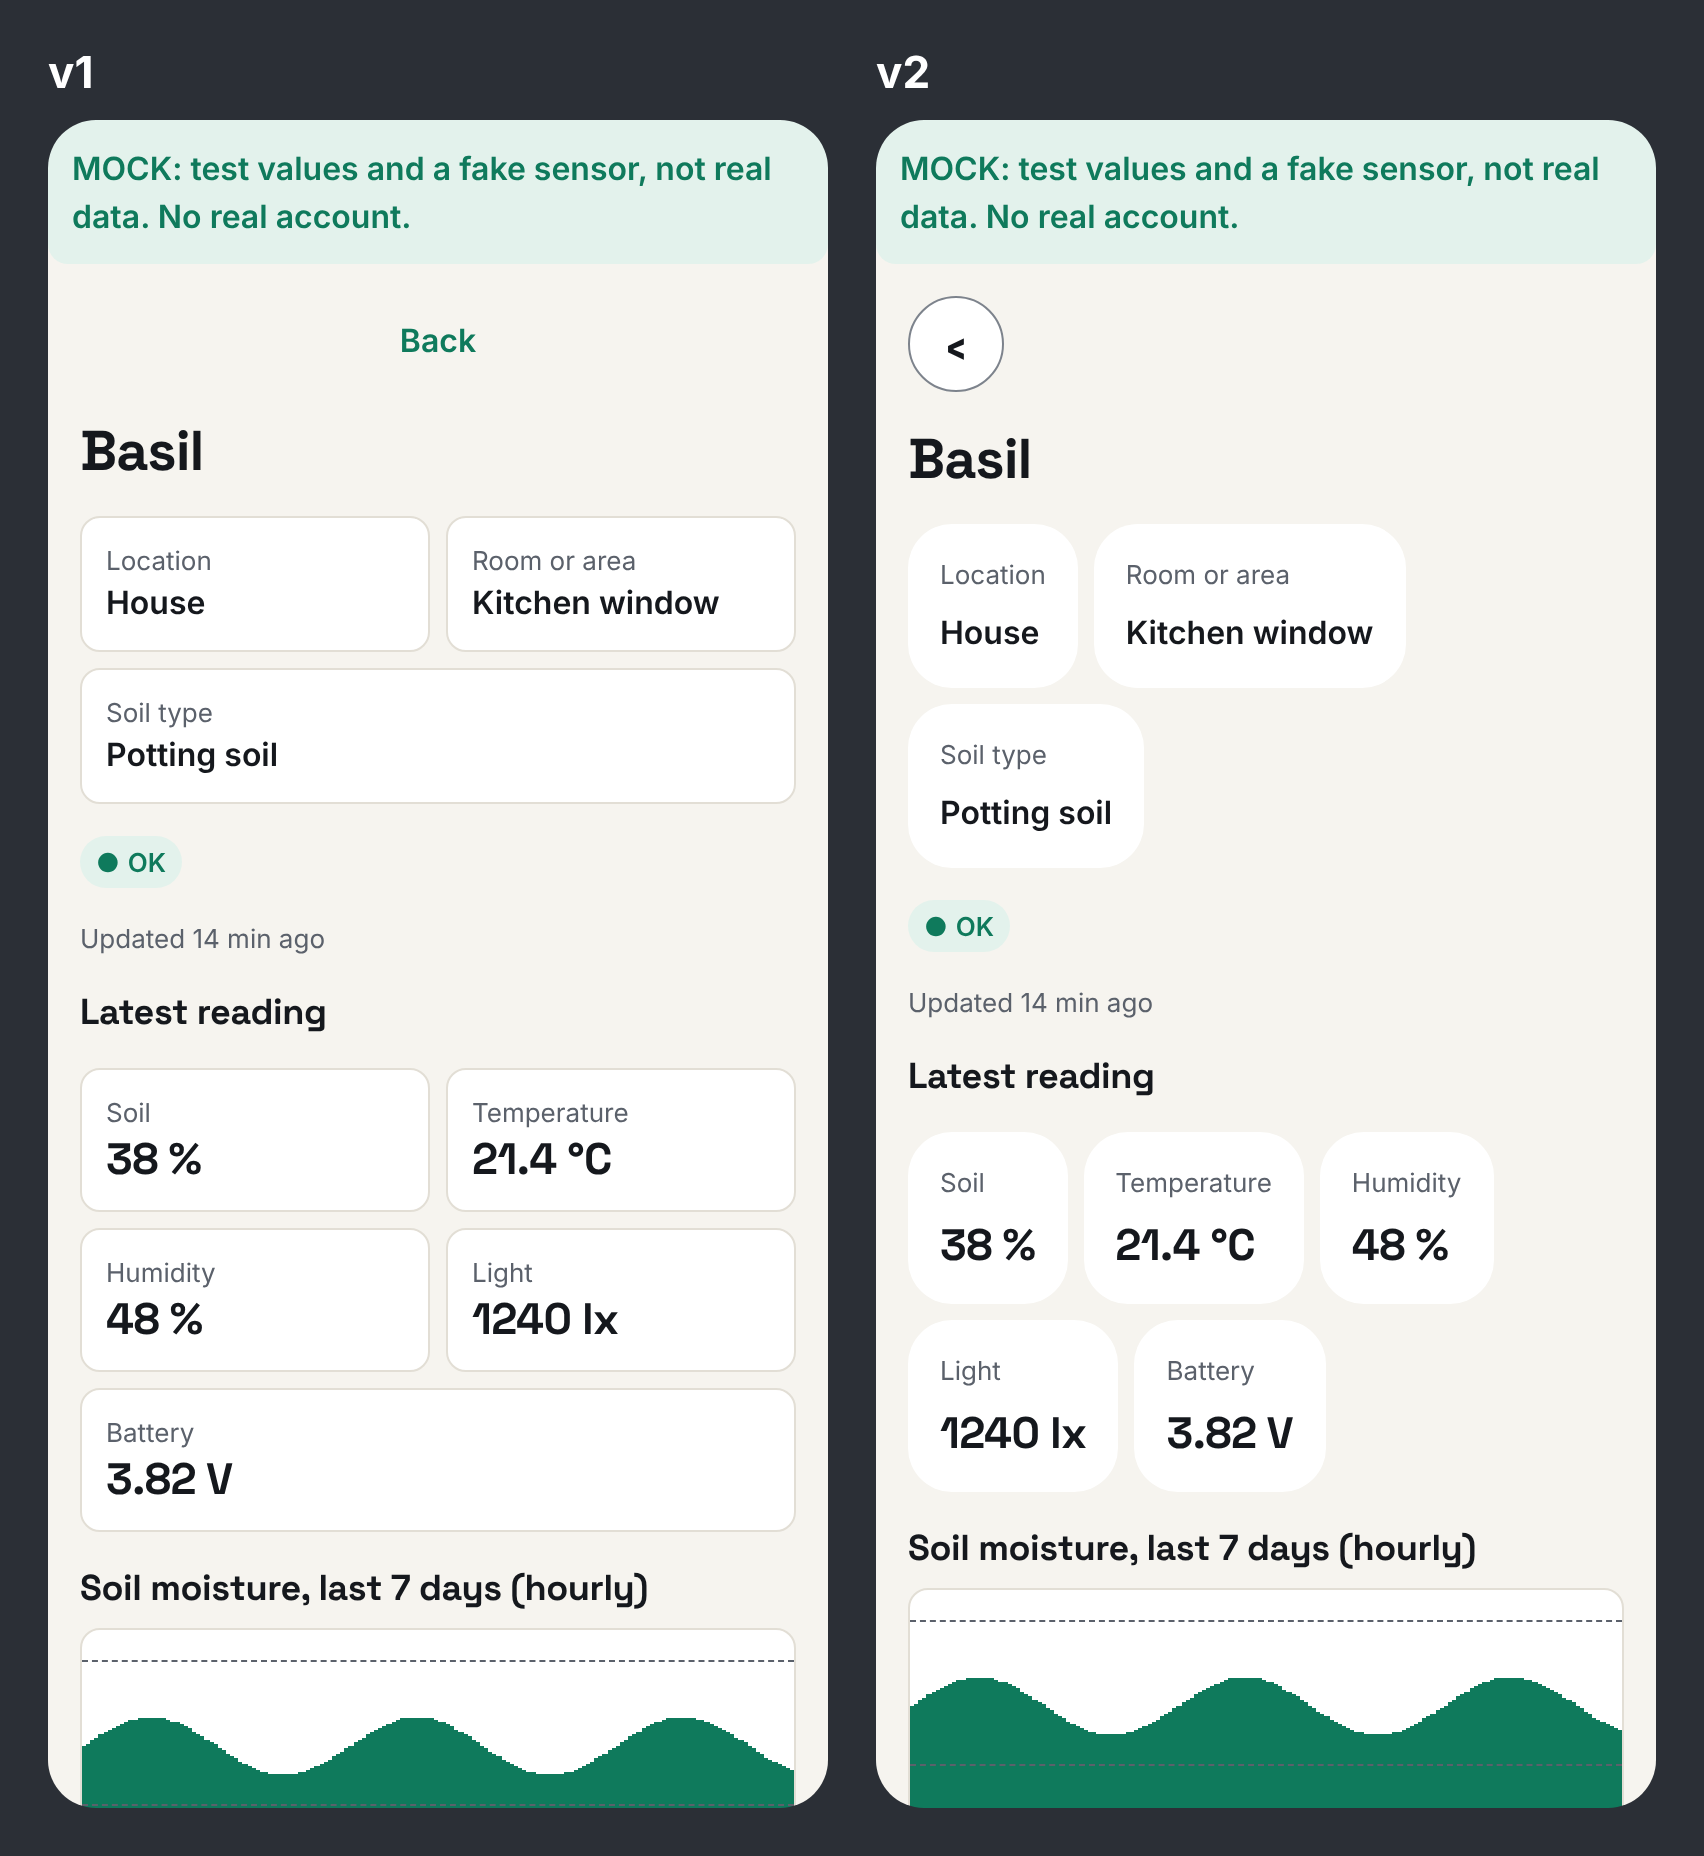
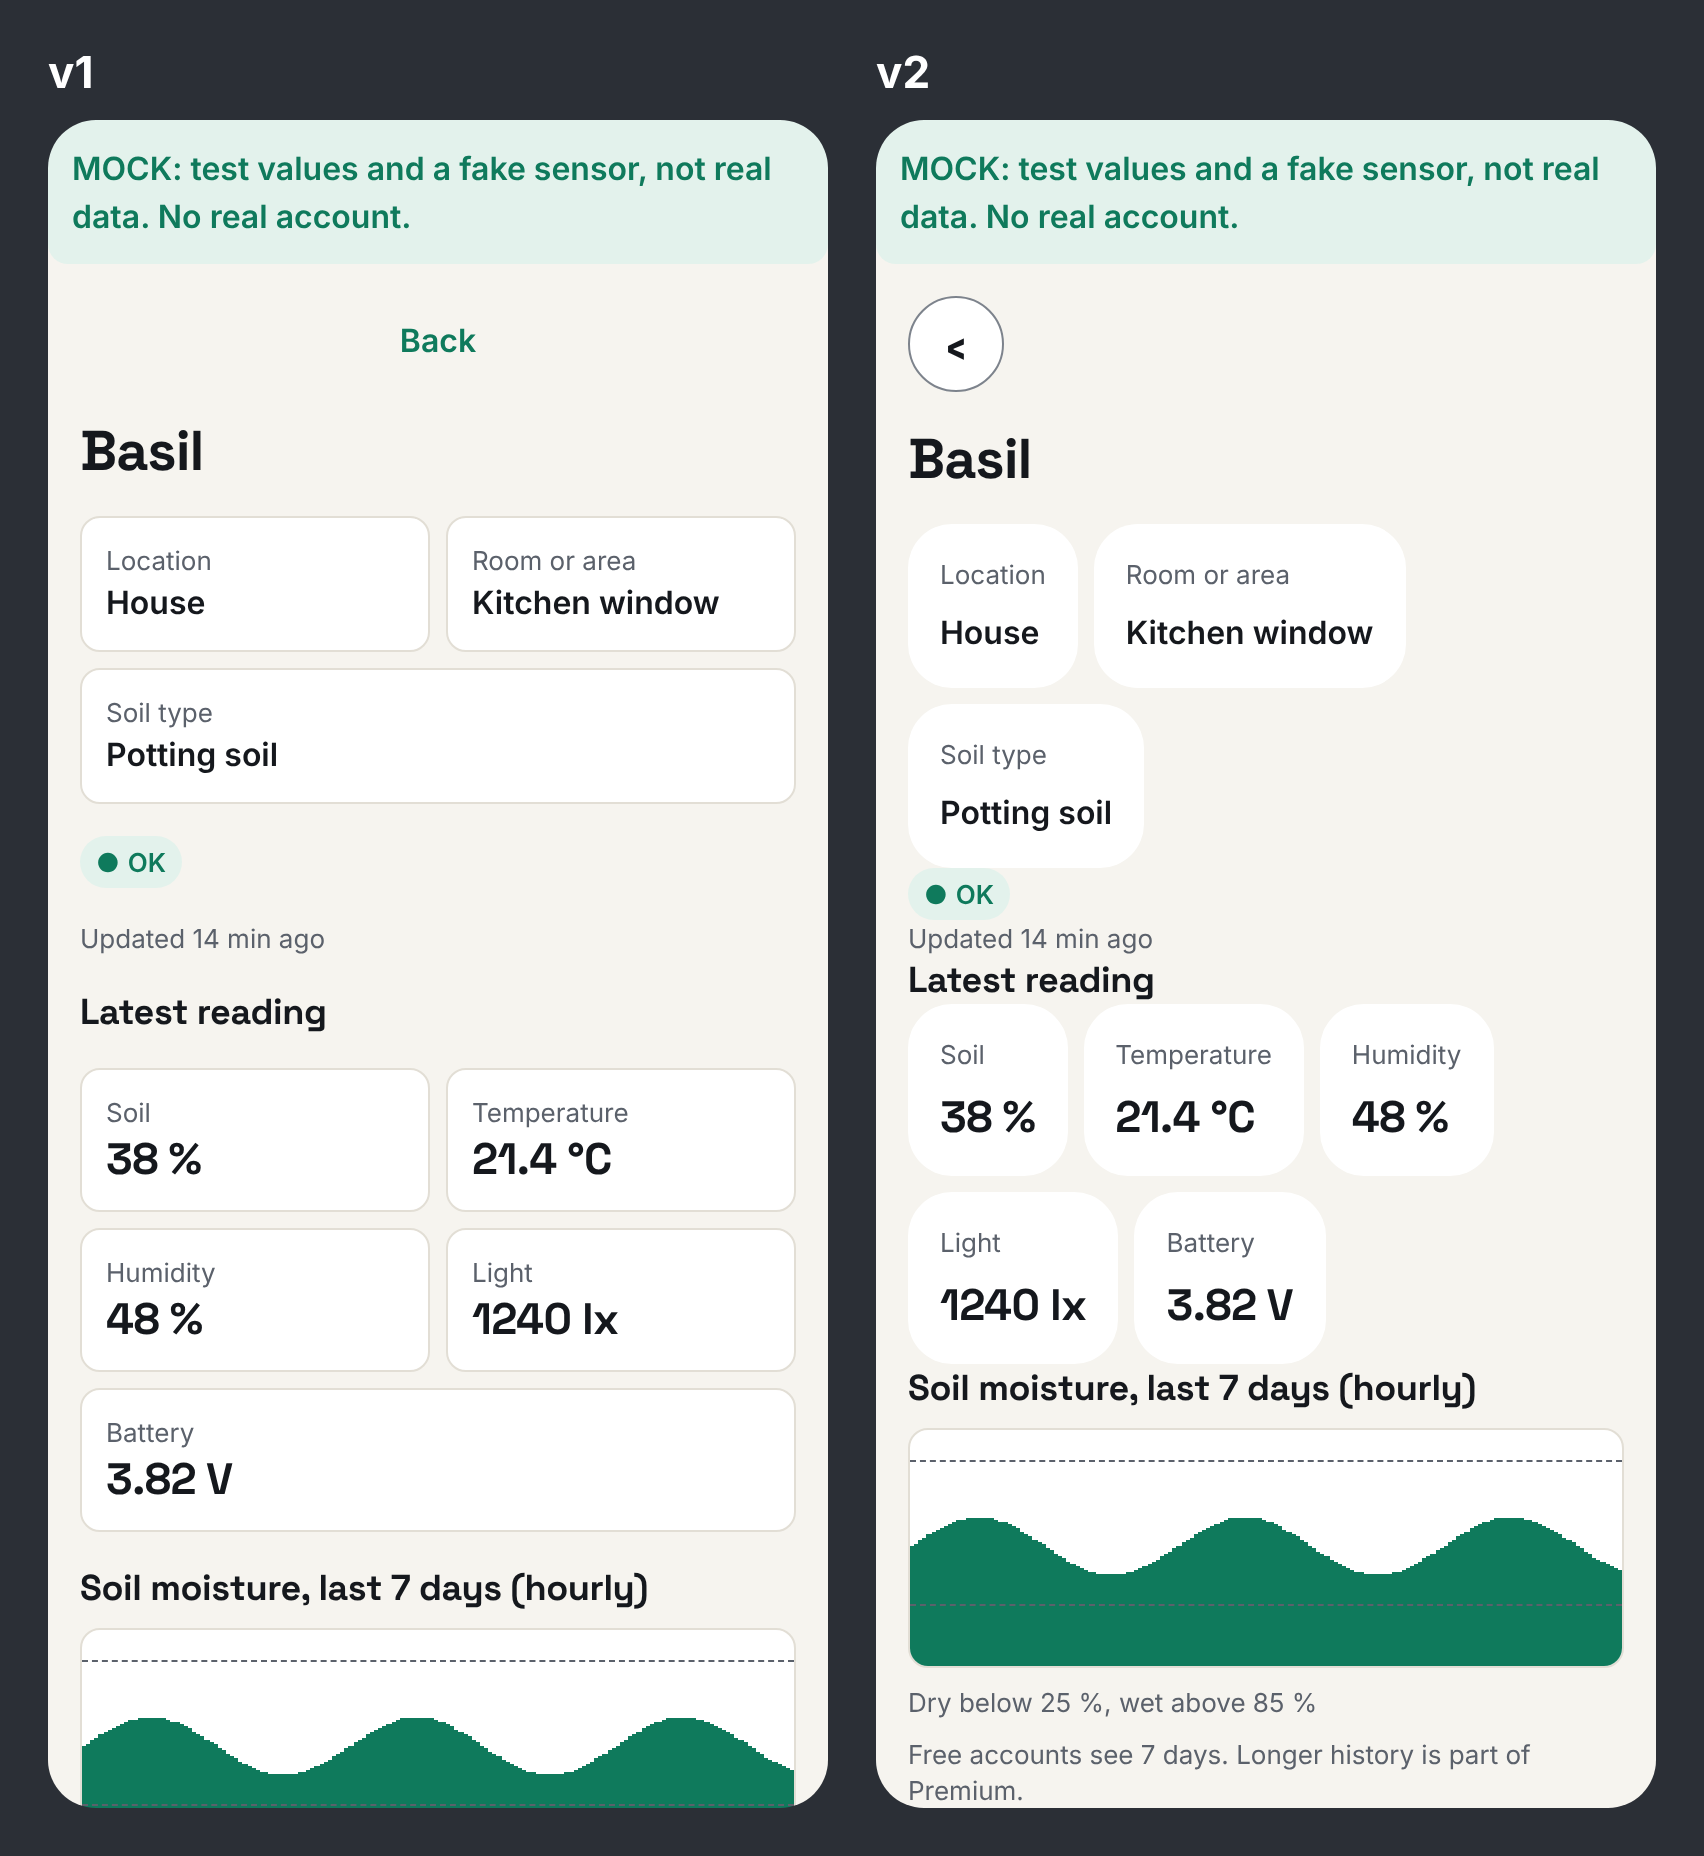
Restyle group 1 (profile, My plants, plant detail): reduced-motion-aware fade on screen content, list row for the profile email; before and after renders
Claude-Session: https://claude.ai/code/session_01W3bSqBd8nqtrn2oVzxrJYm

Changed region(s): [[0.5288, 0.8125, 0.9642, 1.0], [0.5288, 0.4688, 0.8709, 0.7812], [0.7776, 0.5625, 0.8398, 0.6875]]

diff --git a/projects/plant-monitor/app/src/ui/primitives.tsx b/projects/plant-monitor/app/src/ui/primitives.tsx
@@ -1,6 +1,6 @@
 // Small themed building blocks. Colours/spacing only from theme.ts tokens, text only via t() (playbook: no inline values, no inline strings).
 import React from 'react';
-import { Pressable, ScrollView, Text, TextInput, View, type TextInputProps } from 'react-native';
+import { AccessibilityInfo, Animated, Pressable, ScrollView, Text, TextInput, View, type TextInputProps } from 'react-native';
 import { useTheme } from './useTheme';
 import { t } from '../i18n';
 
@@ -15,14 +15,29 @@ export function BackButton({ onPress }: { onPress: () => void }) {
   );
 }
 
-export function Screen({ title, children, onBack }: { title: string; children: React.ReactNode; onBack?: () => void }) {
+/** Short fade-in for a screen's content (220 ms, native driver). When the system asks for reduced motion the content is shown at once. */
+export function FadeIn({ children }: { children: React.ReactNode }) {
+  const opacity = React.useRef(new Animated.Value(0)).current;
+  React.useEffect(() => {
+    let alive = true;
+    AccessibilityInfo.isReduceMotionEnabled().then((reduce) => {
+      if (!alive) return;
+      if (reduce) opacity.setValue(1);
+      else Animated.timing(opacity, { toValue: 1, duration: 220, useNativeDriver: true }).start();
+    }, () => { if (alive) opacity.setValue(1); });
+    return () => { alive = false; };
+  }, [opacity]);
+  return <Animated.View style={{ opacity }}>{children}</Animated.View>;
+}
+
+export function Screen({ title, children, onBack, fade }: { title: string; children: React.ReactNode; onBack?: () => void; fade?: boolean }) {
   const th = useTheme();
   return (
     <View style={{ flex: 1, backgroundColor: th.color.bg }} accessibilityLabel={t('a11y.screenTitle', { title })}>
       <ScrollView contentContainerStyle={{ padding: th.spacing.lg, gap: th.spacing.lg }} keyboardShouldPersistTaps="handled">
         {onBack ? <BackButton onPress={onBack} /> : null}
         <Text accessibilityRole="header" style={{ color: th.color.ink, ...th.type.h1 }}>{title}</Text>
-        {children}
+        {fade ? <FadeIn>{children}</FadeIn> : children}
       </ScrollView>
     </View>
   );

diff --git a/projects/plant-monitor/app/src/screens/ProfileScreen.tsx b/projects/plant-monitor/app/src/screens/ProfileScreen.tsx
@@ -2,7 +2,7 @@
 // NFR-06 (reads/writes only the caller's own profiles row under RLS).
 import React, { useCallback, useEffect, useState } from 'react';
 import { Body, Button, Field, Notice, Screen } from '../ui/primitives';
-import { Card, Caption } from '../ui/kit';
+import { Card, Caption, ListRow } from '../ui/kit';
 import { Column } from '../ui/kit';
 import { LegalLine } from '../ui/LegalLine';
 import { t } from '../i18n';
@@ -46,11 +46,13 @@ export function ProfileScreen({ onPremium, onDelete, onAddSensor, onDashboard, o
   };
 
   return (
-    <Screen title={t('profile.title')}>
+    <Screen fade title={t('profile.title')}>
       {error ? <Notice kind="error" text={error} /> : null}
       <Card>
-        <Caption>{t('profile.email')}</Caption>
-        <Body>{state.user?.email ?? ''}</Body>
+        <ListRow last>
+          <Caption>{t('profile.email')}</Caption>
+          <Body>{state.user?.email ?? ''}</Body>
+        </ListRow>
       </Card>
       <Card>
         <Caption>{t('profile.plan')}</Caption>

diff --git a/projects/plant-monitor/app/src/screens/PlantDetailScreen.tsx b/projects/plant-monitor/app/src/screens/PlantDetailScreen.tsx
@@ -38,7 +38,7 @@ export function PlantDetailScreen({ plantId, onBack, onRemove, onGallery, now = 
   );
 
   return (
-    <Screen title={p?.name ?? t('plants.title')} onBack={onBack}>
+    <Screen fade title={p?.name ?? t('plants.title')} onBack={onBack}>
       {error ? <Notice kind="error" text={error} /> : null}
       {error ? <Button label={t('common.tryAgain')} variant="secondary" onPress={load} /> : null}
       {!detail && !error ? <Body muted>{t('common.loading')}</Body> : null}

diff --git a/projects/plant-monitor/app/src/screens/PlantsScreen.tsx b/projects/plant-monitor/app/src/screens/PlantsScreen.tsx
@@ -26,7 +26,7 @@ export function PlantsScreen({ onOpen, onAlerts, onCount }: { onOpen: (plantId: 
   useEffect(() => { load(); }, [load]);
 
   return (
-    <Screen title={t('plants.title')}>
+    <Screen fade title={t('plants.title')}>
       {error ? <Notice kind="error" text={error} /> : null}
       {error ? <Button label={t('common.tryAgain')} variant="secondary" onPress={load} /> : null}
       {plants === null && !error ? <Body muted>{t('common.loading')}</Body> : null}

diff --git a/projects/plant-monitor/app/src/ui/kit.tsx b/projects/plant-monitor/app/src/ui/kit.tsx
@@ -206,3 +206,5 @@ export function BarMeter({ percent, tone = 'accent' }: { percent: number; tone?:
     </View>
   );
 }
+
+export { FadeIn } from './primitives';
